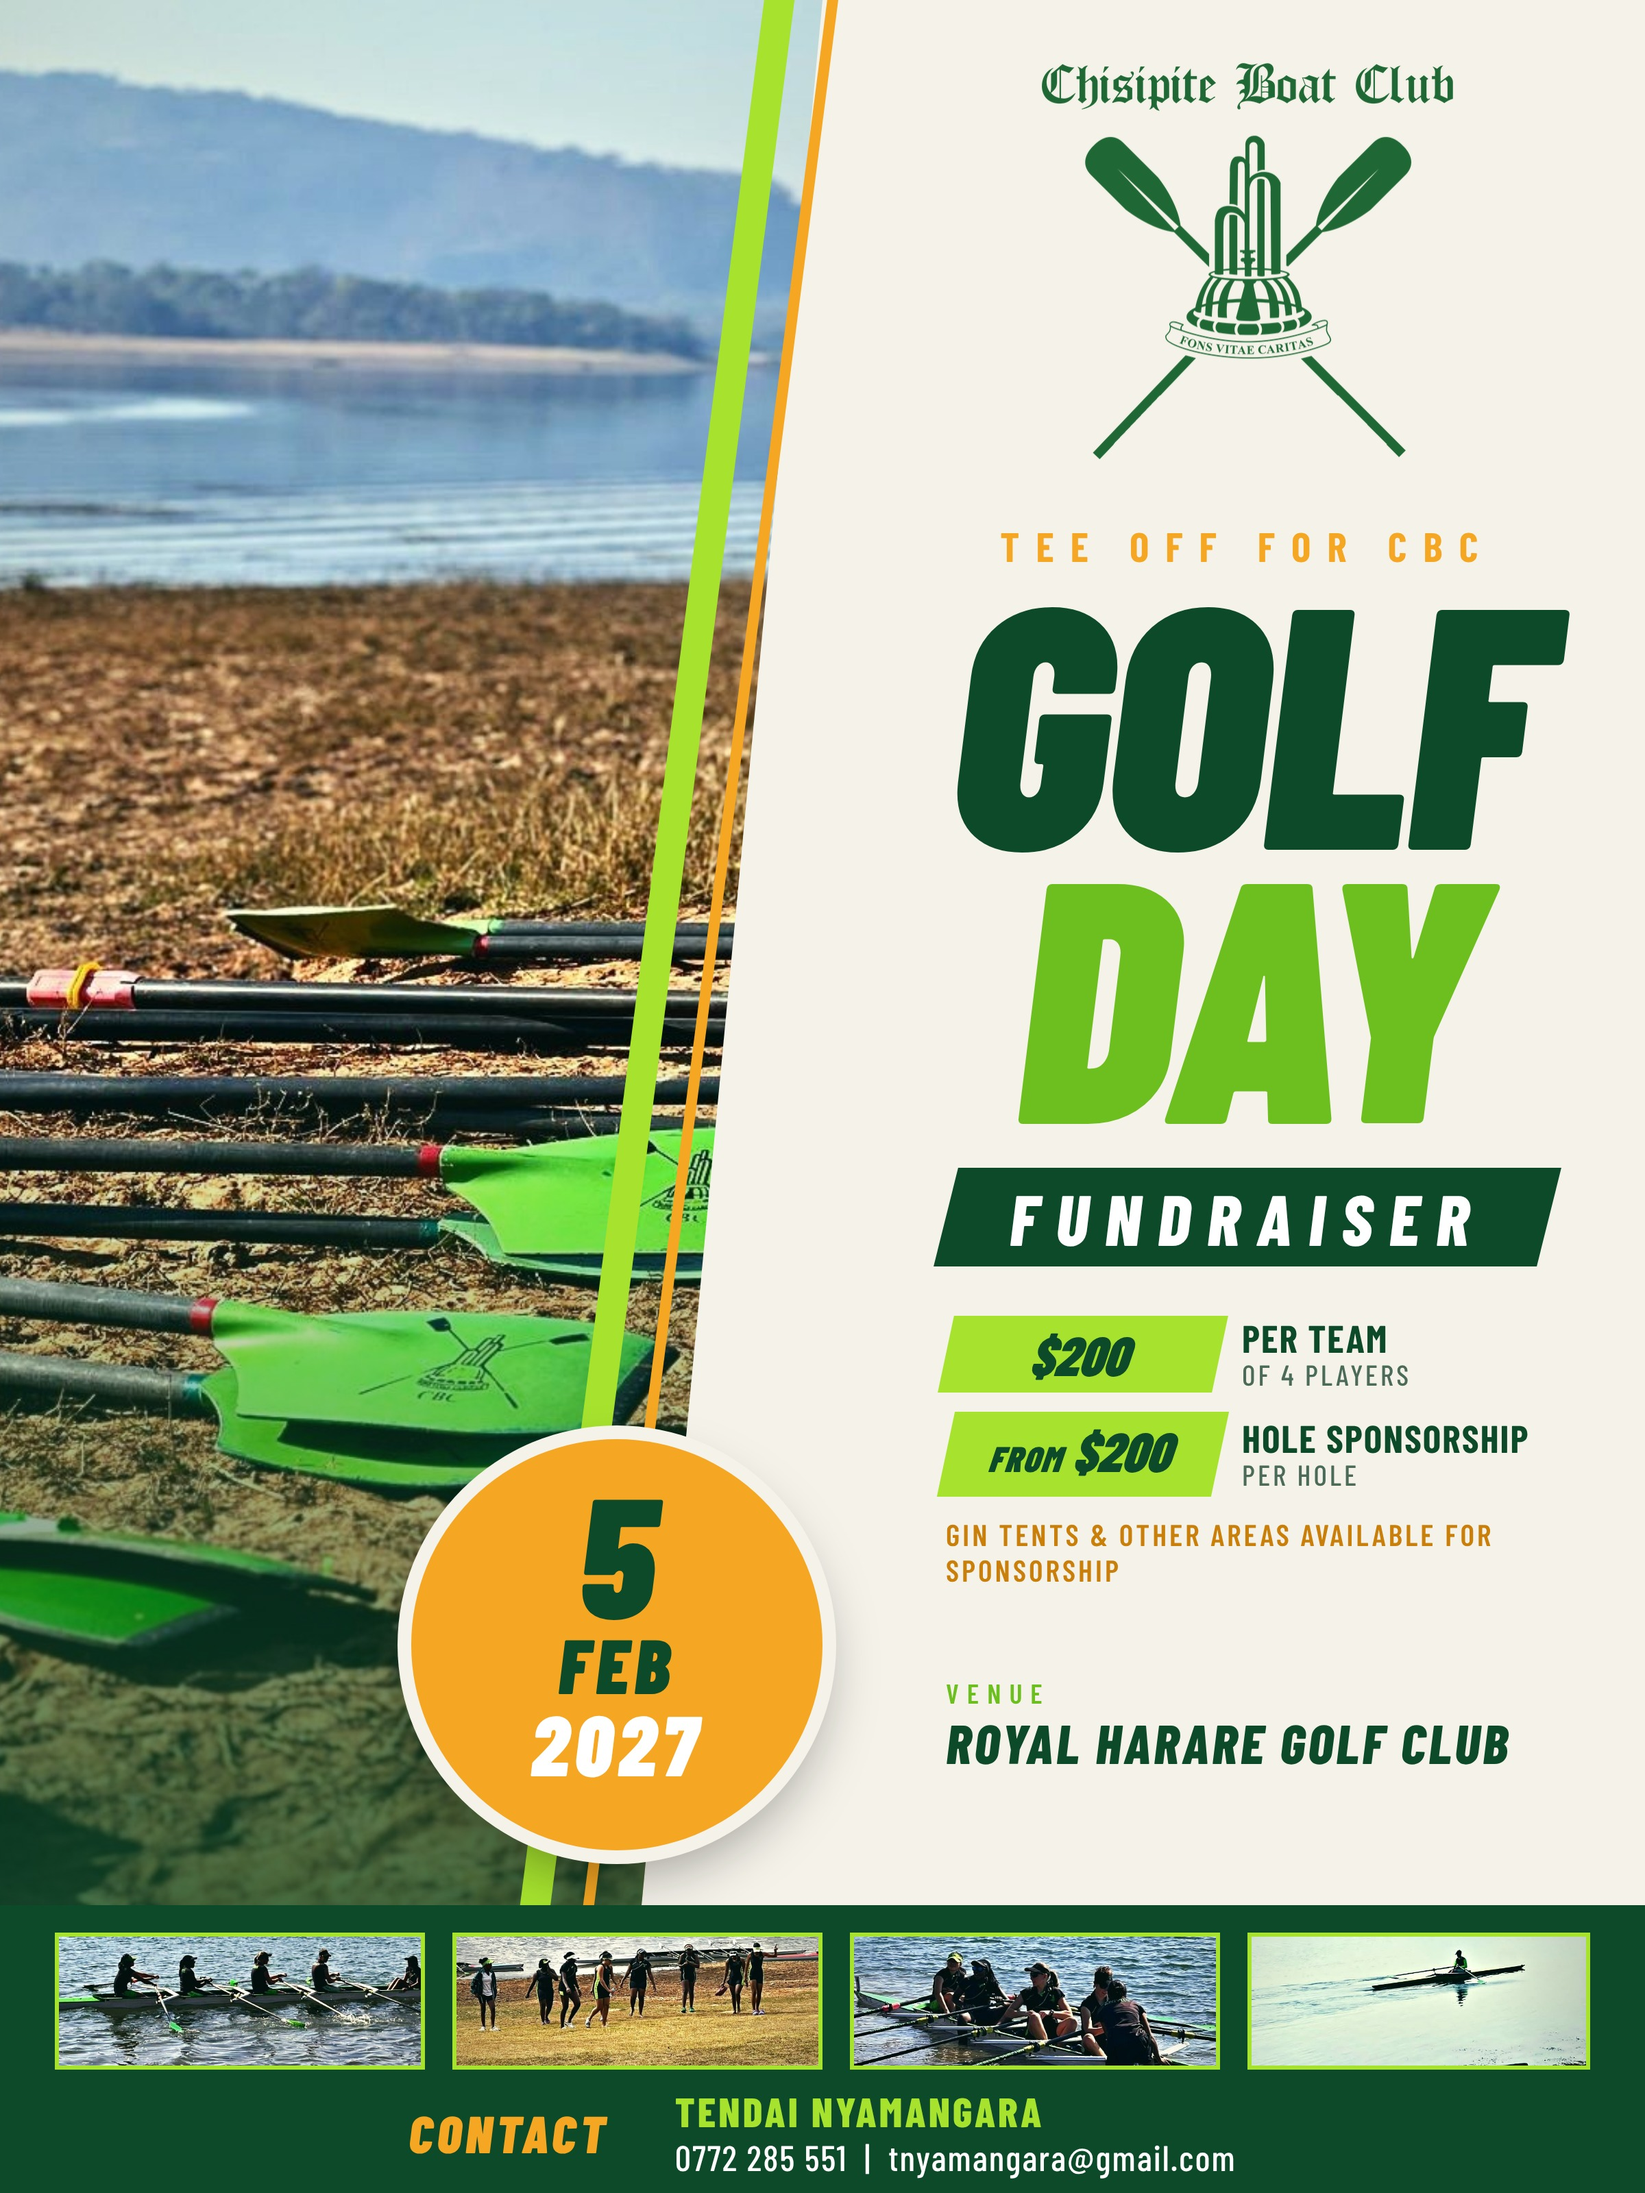
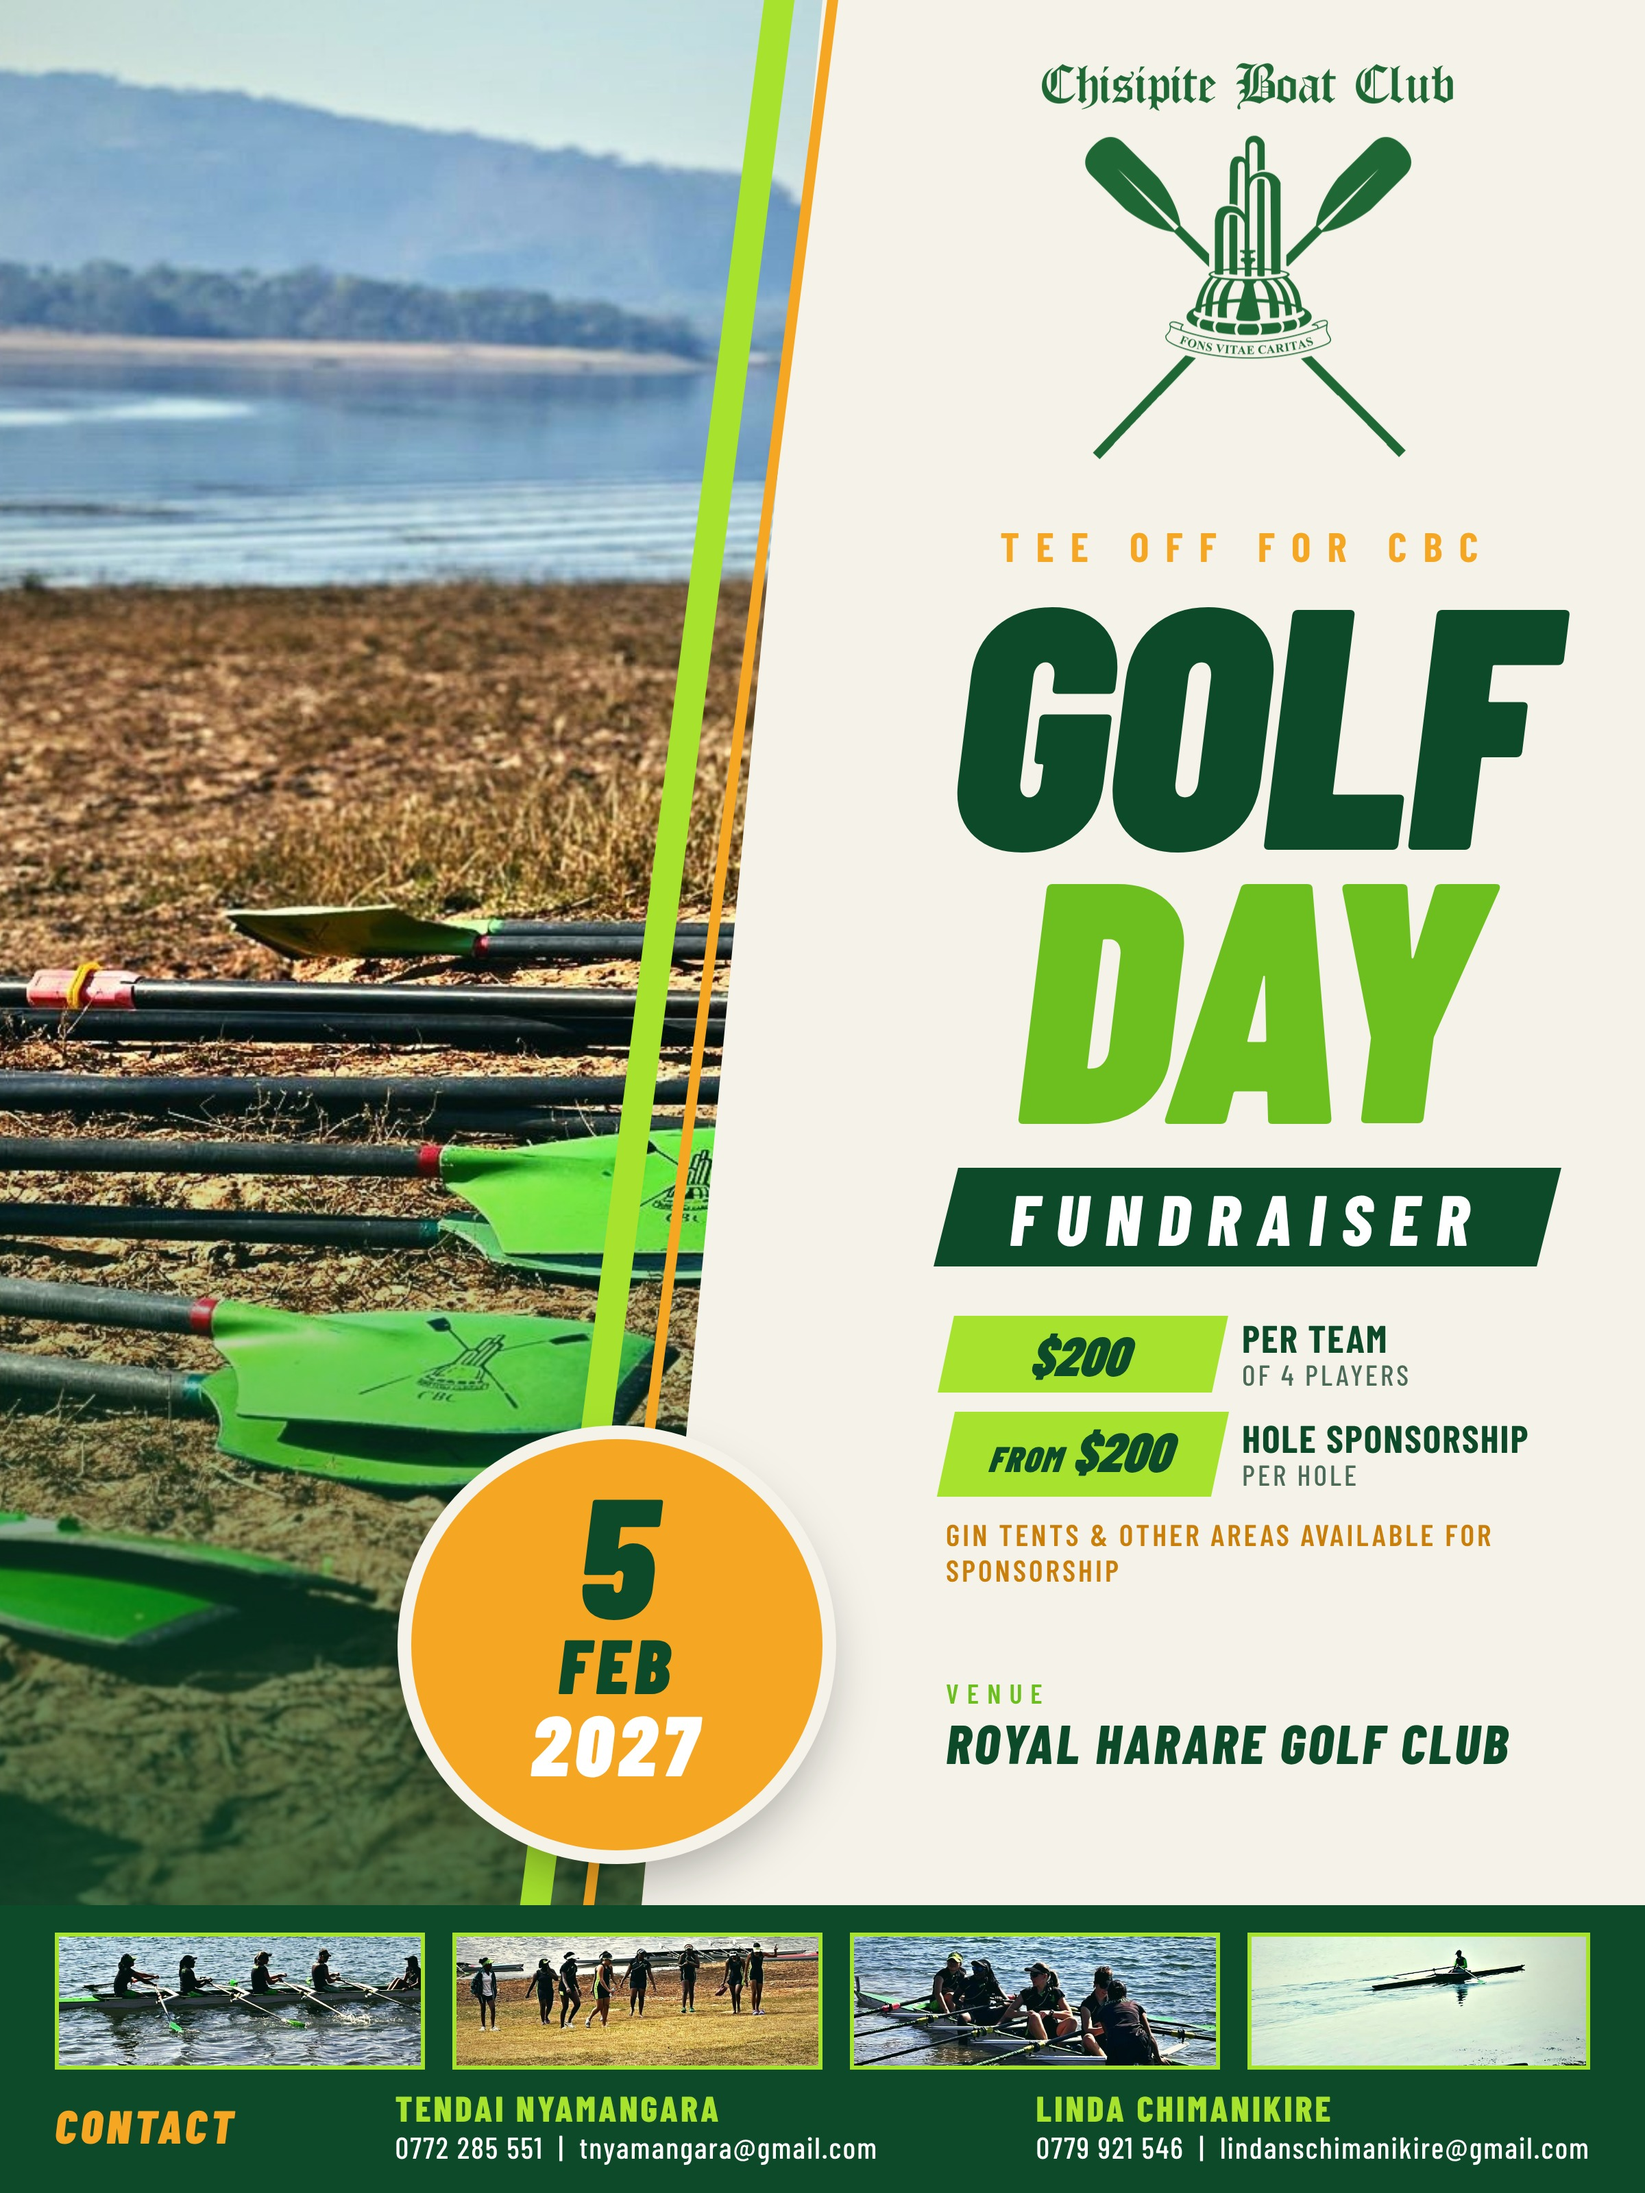
Option B: add Linda Chimanikire as second contact
Claude-Session: https://claude.ai/code/session_01E5pTiti7hhs1WcGuBsVeC3

Changed region(s): [[0.25, 0.9375, 0.9688, 1.0], [0.0312, 0.9375, 0.125, 1.0]]

diff --git a/golf-poster/option_b.template.html b/golf-poster/option_b.template.html
@@ -59,9 +59,9 @@
   .strip { top: 1410px; height: 100px; width: 270px; overflow: hidden; border: 3px solid #a6e22e; }
   .strip img { width: 100%; height: 100%; object-fit: cover; }
   .s1 { left: 40px; } .s2 { left: 330px; } .s3 { left: 620px; } .s4 { left: 910px; width: 250px; }
-  .contacts { left: 40px; top: 1522px; width: 1120px; display: flex; justify-content: center; align-items: center; gap: 48px; color: #fff; font-size: 26px; font-weight: 500; letter-spacing: 1px; }
-  .contacts b { color: #a6e22e; font-weight: 800; font-size: 30px; letter-spacing: 2px; }
-  .contacts .lbl { font-weight: 900; font-style: italic; font-size: 38px; color: #f5a623; letter-spacing: 3px; line-height: 56px; }
+  .contacts { left: 40px; top: 1522px; width: 1120px; display: flex; justify-content: space-between; align-items: center; gap: 24px; color: #fff; font-size: 22px; font-weight: 500; letter-spacing: 1px; }
+  .contacts b { color: #a6e22e; font-weight: 800; font-size: 26px; letter-spacing: 2px; }
+  .contacts .lbl { font-weight: 900; font-style: italic; font-size: 34px; color: #f5a623; letter-spacing: 3px; line-height: 56px; }
 </style>
 </head>
 <body>
@@ -98,6 +98,7 @@
   <div class="abs contacts">
     <div class="lbl">CONTACT</div>
     <div><b>TENDAI NYAMANGARA</b><br>0772 285 551 &nbsp;|&nbsp; tnyamangara@gmail.com</div>
+    <div><b>LINDA CHIMANIKIRE</b><br>0779 921 546 &nbsp;|&nbsp; lindanschimanikire@gmail.com</div>
   </div>
 </div>
 </body>

diff --git a/golf-poster/option_b_express.html b/golf-poster/option_b_express.html
@@ -59,9 +59,9 @@
   .strip { top: 1410px; height: 100px; width: 270px; overflow: hidden; border: 3px solid #a6e22e; }
   .strip img { width: 100%; height: 100%; object-fit: cover; }
   .s1 { left: 40px; } .s2 { left: 330px; } .s3 { left: 620px; } .s4 { left: 910px; width: 250px; }
-  .contacts { left: 40px; top: 1522px; width: 1120px; display: flex; justify-content: center; align-items: center; gap: 48px; color: #fff; font-size: 26px; font-weight: 500; letter-spacing: 1px; }
-  .contacts b { color: #a6e22e; font-weight: 800; font-size: 30px; letter-spacing: 2px; }
-  .contacts .lbl { font-weight: 900; font-style: italic; font-size: 38px; color: #f5a623; letter-spacing: 3px; line-height: 56px; }
+  .contacts { left: 40px; top: 1522px; width: 1120px; display: flex; justify-content: space-between; align-items: center; gap: 24px; color: #fff; font-size: 22px; font-weight: 500; letter-spacing: 1px; }
+  .contacts b { color: #a6e22e; font-weight: 800; font-size: 26px; letter-spacing: 2px; }
+  .contacts .lbl { font-weight: 900; font-style: italic; font-size: 34px; color: #f5a623; letter-spacing: 3px; line-height: 56px; }
 </style>
 </head>
 <body>
@@ -98,6 +98,7 @@
   <div class="abs contacts">
     <div class="lbl">CONTACT</div>
     <div><b>TENDAI NYAMANGARA</b><br>0772 285 551 &nbsp;|&nbsp; tnyamangara@gmail.com</div>
+    <div><b>LINDA CHIMANIKIRE</b><br>0779 921 546 &nbsp;|&nbsp; lindanschimanikire@gmail.com</div>
   </div>
 </div>
 </body>

diff --git a/golf-poster/option_b_preview.html b/golf-poster/option_b_preview.html
@@ -59,9 +59,9 @@
   .strip { top: 1410px; height: 100px; width: 270px; overflow: hidden; border: 3px solid #a6e22e; }
   .strip img { width: 100%; height: 100%; object-fit: cover; }
   .s1 { left: 40px; } .s2 { left: 330px; } .s3 { left: 620px; } .s4 { left: 910px; width: 250px; }
-  .contacts { left: 40px; top: 1522px; width: 1120px; display: flex; justify-content: center; align-items: center; gap: 48px; color: #fff; font-size: 26px; font-weight: 500; letter-spacing: 1px; }
-  .contacts b { color: #a6e22e; font-weight: 800; font-size: 30px; letter-spacing: 2px; }
-  .contacts .lbl { font-weight: 900; font-style: italic; font-size: 38px; color: #f5a623; letter-spacing: 3px; line-height: 56px; }
+  .contacts { left: 40px; top: 1522px; width: 1120px; display: flex; justify-content: space-between; align-items: center; gap: 24px; color: #fff; font-size: 22px; font-weight: 500; letter-spacing: 1px; }
+  .contacts b { color: #a6e22e; font-weight: 800; font-size: 26px; letter-spacing: 2px; }
+  .contacts .lbl { font-weight: 900; font-style: italic; font-size: 34px; color: #f5a623; letter-spacing: 3px; line-height: 56px; }
 </style>
 </head>
 <body>
@@ -98,6 +98,7 @@
   <div class="abs contacts">
     <div class="lbl">CONTACT</div>
     <div><b>TENDAI NYAMANGARA</b><br>0772 285 551 &nbsp;|&nbsp; tnyamangara@gmail.com</div>
+    <div><b>LINDA CHIMANIKIRE</b><br>0779 921 546 &nbsp;|&nbsp; lindanschimanikire@gmail.com</div>
   </div>
 </div>
 </body>
